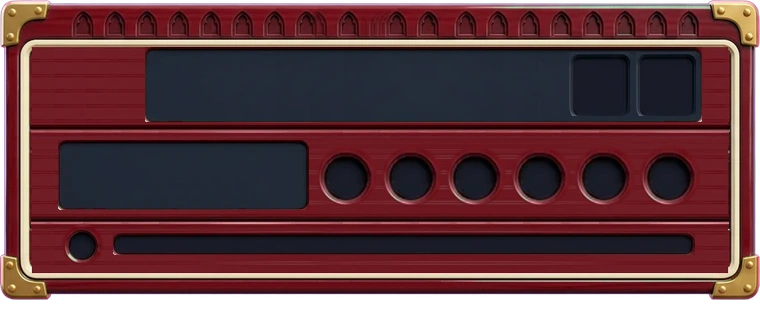
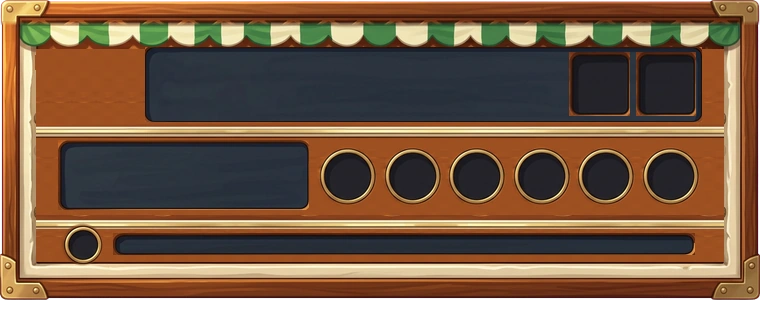
1.b Maidan: new club-pavilion scoreboard (teak, striped tent valance, brass rails — Figma 356:191) on the locked layout
Claude-Session: https://claude.ai/code/session_01EnXvJ8XPeyqCUAaLS3ewZZ

diff --git a/art/ui/hud_lock/build_locked_boards.py b/art/ui/hud_lock/build_locked_boards.py
@@ -47,6 +47,9 @@ def frac_hud():
 
 # ---- per-board source measurements (original px, 760 wide). slots = the board's own HUD fractions ----
 B = {
+ 'maidan3': dict(k=1.0, Ri=(36, 49, 724, 254), mat=(130, 193, 214, 226), overBand=(14, 52, 30, 730), deco=[('rails', [(111, 125, 300, 500), (194, 208, 300, 500)], (36, 724))],
+   chase=[0.1829, 0.0711, 0.7566, 0.1395], wk=[0.7711, 0.0711, 0.8395, 0.1395], score=[0.0671, 0.1711, 0.2763, 0.2539],
+   sock=[0.3434, 0.2132, 0.0355], badge=[0.0526, 0.0789, 0.0592, 0.0855], eIcon=[0.1171, 0.3053, 0.0197], eBar=[0.1803, 0.2842, 0.925, 0.3237]),
  'maidan2': dict(k=.84, Ri=(38, 56, 722, 300), mat=(141, 150, 150, 560), amp=.7, deco=[('rails', [(148, 162, 200, 420), (239, 254, 200, 420)], (31, 729))],
    chase=[.1473, .0853, .9457, .1843], wk=[.7717, .0965, .845, .1688], score=[.056, .2127, .5831, .3075],
    sock=[.6184, .2601, .0237], badge=[.0594, .0913, .1335, .1783], eIcon=[.0805, .3549, .0215], eBar=[.1146, .3342, .9457, .3773]),
@@ -216,6 +219,15 @@ def build(name, src, P):
     ex, ey, er = [v * 760 for v in P['eIcon']]; er2 = er * 1.45
     pc = rs4(a[int(ey - er2):int(ey + er2), int(ex - er2):int(ex + er2)], 2 * t['eIcon'][2] * 1.45, 2 * t['eIcon'][2] * 1.45); pc = circ(pc, 0.86)
     paste(out, pc, t['eIcon'][0] - t['eIcon'][2] * 1.45, t['eIcon'][1] - t['eIcon'][2] * 1.45)
+    if 'overBand' in P:   # e.g. a tent valance that drapes over the top panel: its green + cream stripes go back on top
+        y1, y2, x1, x2 = P['overBand']; fr = f[:BODY]; rgb = fr[..., :3] / 255.0
+        green = (rgb[..., 1] > rgb[..., 0] + .06) & (rgb[..., 1] > rgb[..., 2] + .06)
+        cream = (rgb.min(-1) > .62) & (rgb.max(-1) - rgb.min(-1) < .28)
+        m = np.zeros(fr.shape[:2], bool); m[y1:y2, x1:x2] = (green | cream)[y1:y2, x1:x2]
+        from PIL import ImageFilter
+        mi = Image.fromarray((m * 255).astype(np.uint8)).filter(ImageFilter.MaxFilter(3)).filter(ImageFilter.GaussianBlur(.8))
+        al = np.array(mi).astype(np.float32)[..., None] / 255.0
+        out[:BODY, :, :3] = out[:BODY, :, :3] * (1 - al) + fr[..., :3] * al
     if P.get('flowersOver'):   # marigolds hang over the top panel, as on the original
         import colorsys
         fr = f[:BODY].copy(); rgb = fr[..., :3] / 255.0
